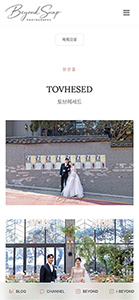
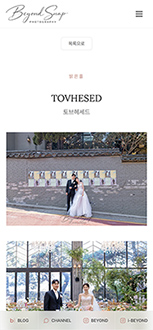
docs: README 내용 수정 및 이미지 사이즈 변경

diff --git a/README.md b/README.md
@@ -1,7 +1,7 @@
 # 비욘드스냅 (Beyond Snap) 사이트 리뉴얼
 
-웨딩 스냅 스튜디오 [beyondsnap.co.kr](https://beyondsnap.co.kr) 공식 사이트 리뉴얼 프로젝트
-클라이언트 협의부터 개발, 배포, 작가용 관리자 화면까지 1인 진행한 외주 프로젝트
+**웨딩 스냅 스튜디오 [beyondsnap.co.kr](https://beyondsnap.co.kr) 공식 사이트 리뉴얼 프로젝트**<br>
+**클라이언트 협의부터 개발, 배포, 작가용 관리자 화면까지 1인 진행한 외주 프로젝트**
 
 ![메인 페이지 PC 화면](docs/images/screenshot_pc_main.jpg)
 ![메인 페이지 mobile 화면](docs/images/screenshot_mobile_main.jpg)
@@ -21,8 +21,7 @@
 
 ## 1. 프로젝트 배경
 
-작가에게 사진은 곧 상품, 포트폴리오 사이트가 가장 중요한 영업 채널
-클라이언트와 협의한 요구사항은 다음과 같음
+작가에게 사진은 곧 상품, 포트폴리오 사이트가 가장 중요한 영업 채널로 클라이언트와 협의한 요구사항은 다음과 같음
 
 - 문의 유입 대부분이 모바일, 모바일 퍼스트 설계
 - 고화질 사진 노출과 빠른 로딩 동시 만족
@@ -120,24 +119,3 @@
 | 이미지 로딩 중 레이아웃 흔들림        | 이미지 크기를 모른 채 렌더링                                    | 업로드 시 `width/height` 저장, `aspect-ratio` 선지정               |
 
 ---
-
----
-
-<details>
-<summary>로컬 실행 방법</summary>
-
-```bash
-npm install
-npm run dev        # http://localhost:3000
-npm run typecheck
-npm run deploy     # OpenNext 빌드 + Cloudflare 배포
-```
-
-필요한 환경변수 (`.env.local`)
-`NEXT_PUBLIC_SUPABASE_URL`, `NEXT_PUBLIC_SUPABASE_ANON_KEY`, `SUPABASE_SERVICE_ROLE_KEY`,
-`ADMIN_ID`, `ADMIN_PASSWORD`, `ADMIN_SESSION_SECRET`,
-`R2_ACCOUNT_ID`, `R2_ACCESS_KEY_ID`, `R2_SECRET_ACCESS_KEY`, `R2_BUCKET_NAME`, `R2_PUBLIC_URL`
-
-DB 스키마: `supabase/schema.sql`을 Supabase SQL Editor에서 실행
-
-</details>
